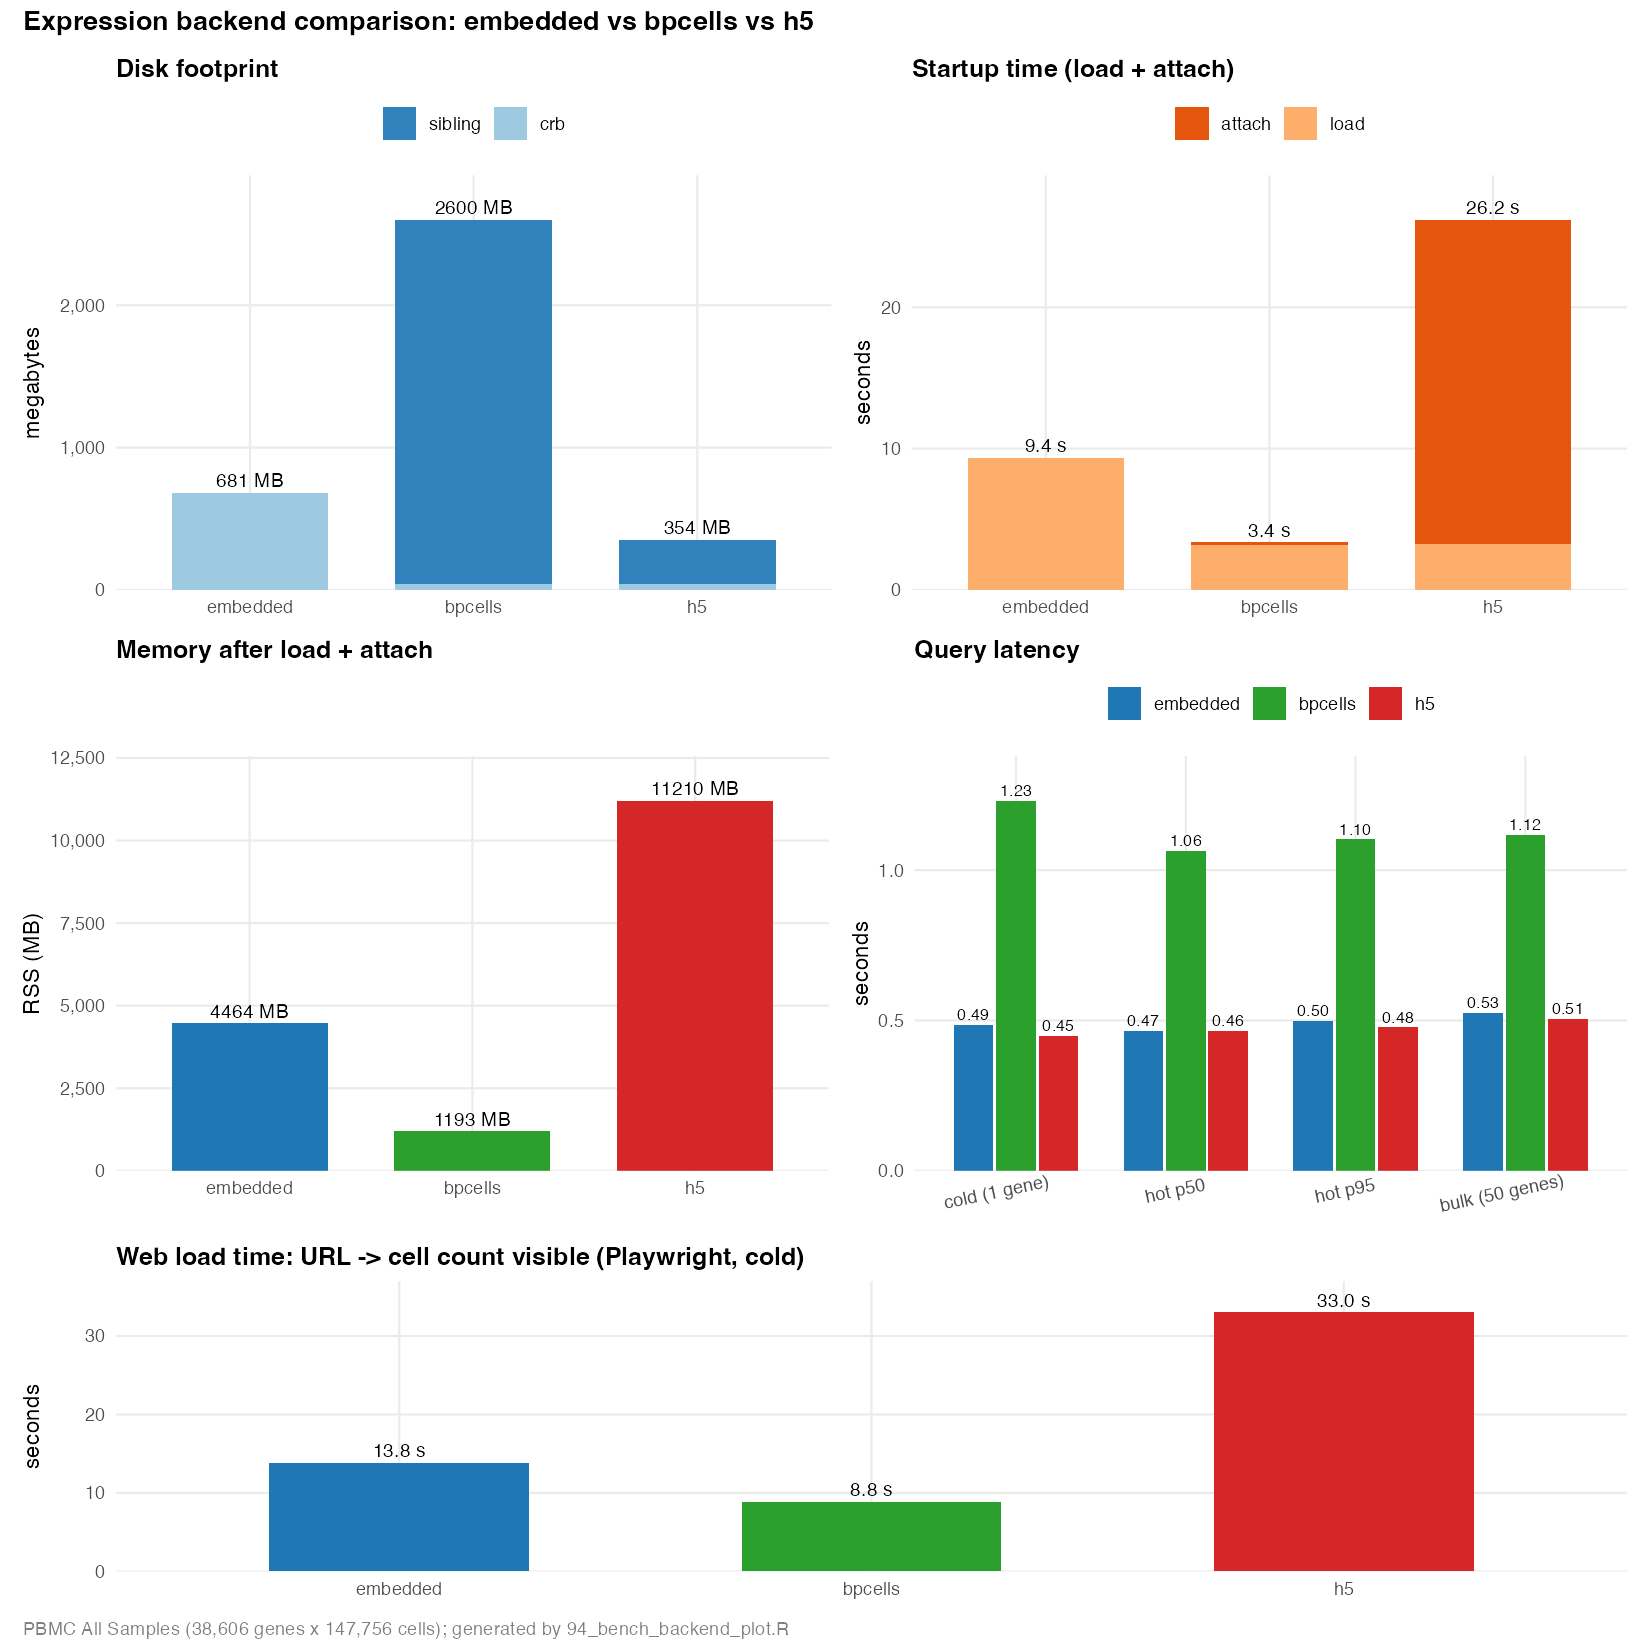
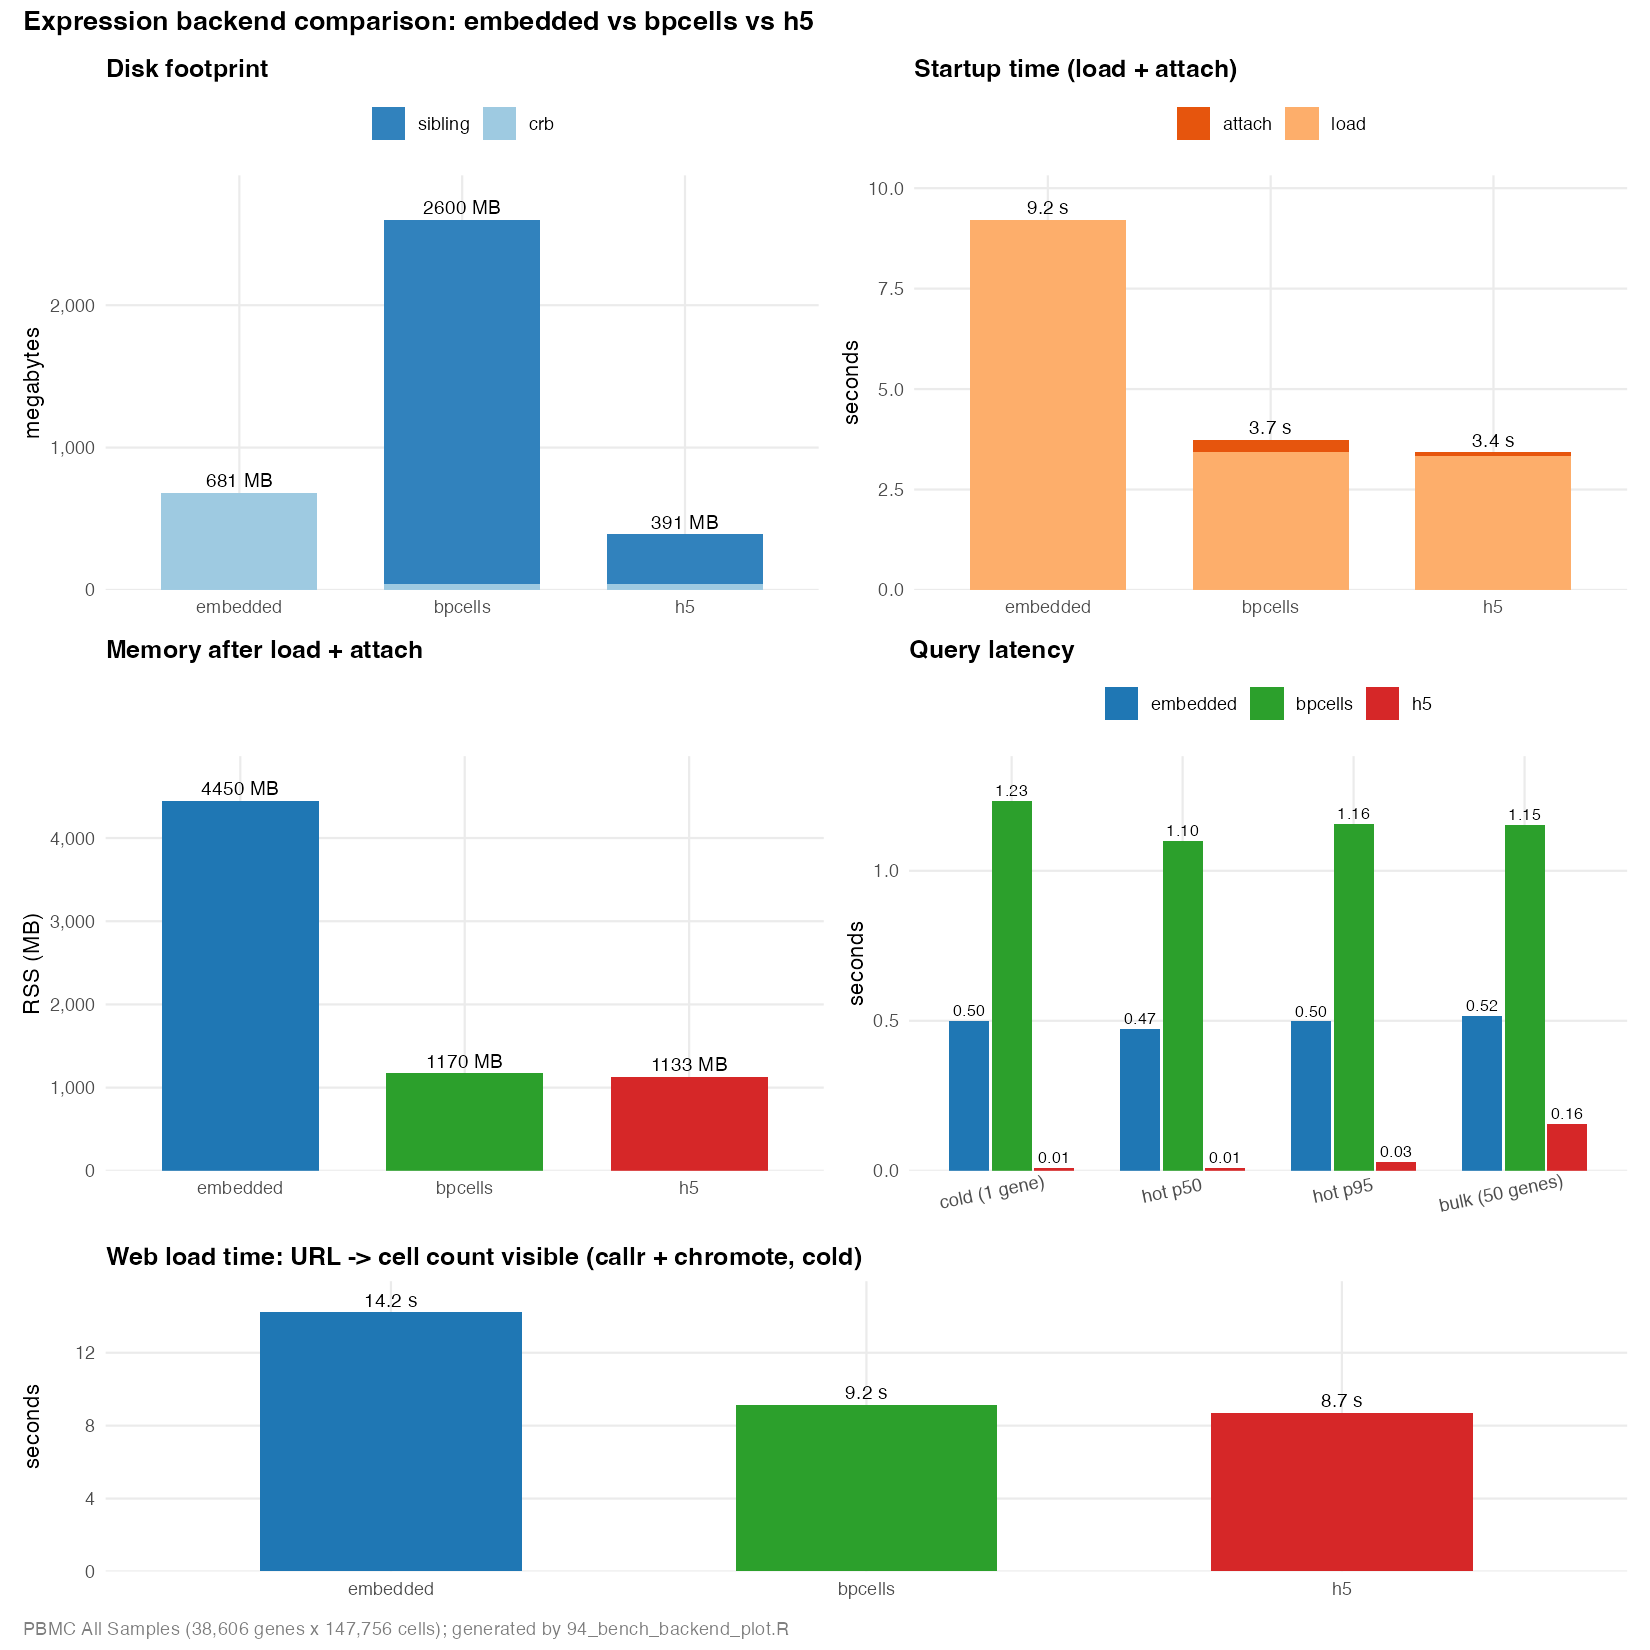
docs: refresh README + vignettes for 1.7.0 lazy h5
- README §3 backend table: h5 row updated to lazy TENxMatrix; measured
  trade-off table now shows the post-refactor numbers (disk 391 MB,
  startup 3.4 s, RAM 1.1 GB, query 0.01 s, web load 8.7 s) with h5 as
  the recommended default.
- vignettes/expression_backend_benchmark.Rmd: new §"The three backends"
  explainer (eager vs lazy in one paragraph + per-backend dimension
  table); §Results / §Web load / §When to pick rewritten with 1.7.0
  numbers; new §Appendix consolidating the 1.6.0-vs-1.7.0 before/after
  comparison (previously scattered in the body).
- vignettes/create_a_self_contained_shiny_app.Rmd: createShinyApp
  rename + author Xuesong Wang.
- vignettes/expression_backend_benchmark_summary.png: refreshed 5-panel
  bench plot (incl. web-load panel) from the new benchmark run.

The bench scripts that produced the numbers live under tests/smoke/
(gitignored as a local sandbox); methodology is fully described in the
vignette so the experiment can be reproduced from scratch.

diff --git a/README.md b/README.md
@@ -1,20 +1,155 @@
-<!-- badges: start -->
-[![R-CMD-check](https://github.com/mihem/cerebroAppLite/actions/workflows/R-cmd-check.yaml/badge.svg)](https://github.com/mihem/cerebroAppLite/actions/workflows/R-cmd-check.yaml)
+[![R-CMD-check (upstream)](https://github.com/mihem/cerebroAppLite/actions/workflows/R-cmd-check.yaml/badge.svg)](https://github.com/mihem/cerebroAppLite/actions/workflows/R-cmd-check.yaml)
 [![License: MIT](https://img.shields.io/badge/License-MIT-yellow.svg)](https://opensource.org/licenses/MIT)
 ![Lifecycle: stable](https://lifecycle.r-lib.org/articles/figures/lifecycle-stable.svg)
-<!-- badges: end -->
+
+
 
 # cerebroAppLite
 
-R package that provides an interactive visualization of single cell RNA-seq data.
-[Seurat](https://github.com/satijalab/seurat) v3, v4 and v5 are supported.
-To increase speed use [h5](https://github.com/Bioconductor/HDF5Array) or [BPCells](https://github.com/bnprks/BPCells) matrix.
+Interactive visualization of single-cell RNA-seq data, built on top of [Shiny](https://shiny.posit.co/).
 
-This is a continuation of the excellent [cerebroApp](https://github.com/romanhaa/cerebroApp) R package from [Roman Hillje](https://github.com/romanhaa), which was sadly discontinued.
-This is supposed to be a lightweight version that only keeps the key functions and focuses on speed.
+This is a fork of [cerebroAppLite](https://github.com/mihem/cerebroAppLite) by [mihem](https://github.com/mihem),
+itself a slimmed-down fork of the original [cerebroApp](https://github.com/romanhaa/cerebroApp)
+by [Roman Hillje](https://github.com/romanhaa). The R-CMD-check badge above tracks mihem's upstream branch.
+For general usage, data preparation, and the original feature set, please refer to the official documentation:
 
-The package can be installed with
+> **<https://romanhaa.github.io/cerebroApp/>**
+
+Everything described there (loading data, exploring projections, viewing marker genes, gene expression, etc.) works the same way in cerebroAppLite. The sections below only cover **what this fork adds or changes**.
+
+## Installation
 
 ```r
-remotes::install_github('mihem/cerebroAppLite')
+remotes::install_github('duocang/cerebroAppLite')
 ```
+
+## What's New in This Fork
+
+### 1. `convertSeuratToCerebro()` — one-step data conversion
+
+The original cerebroApp requires you to call `exportFromSeurat()` manually with many parameters. This fork adds a convenience wrapper that handles the entire process in a single call: reading the Seurat object (`.rds` on disk, or one already loaded in memory), renaming grouping variables, loading marker gene tables, calculating most-expressed genes, pulling scRepertoire columns out of `meta.data`, and saving a `.crb` file.
+
+```r
+library(cerebroAppLite)
+
+convertSeuratToCerebro(
+  seurat_file     = "my_seurat.rds",     # or an in-memory Seurat object
+  result_dir      = "output/",
+  assay           = "RNA",
+  slot            = "data",
+  experiment_name = "My Experiment",
+  organism        = "Human",
+  groups          = c("sample_id", "condition", "cell_type"),
+  groups_naming   = list(
+    "sample_id" = "sample",
+    "cell_type" = "cluster"
+  ),
+  marker_file              = "markers.csv",   # optional: .csv/.tsv/.txt/.tab
+  expression_matrix_mode   = "h5",            # "embedded" | "bpcells" | "h5", see §3
+  bcr_file                 = NULL,            # optional: .rds with BCR data
+  tcr_file                 = NULL             # optional: .rds with TCR data
+)
+# → saves output/cerebro_my_seurat.crb (+ sibling .h5 / .bpcells/ when applicable)
+```
+
+`.qs` input and `.xlsx` marker tables were dropped in 1.6.0 alongside the `qs` / `readxl` Suggests. If you have either, convert them once with `qs::qread() |> saveRDS()` or open the workbook and re-export as CSV / TSV.
+
+### 2. `createShinyApp()` — generate a deployable Shiny app
+
+Instead of running `launchCerebro()` interactively, you can generate a self-contained Shiny app directory with all data and source files bundled. This is useful for deploying to a Shiny server or sharing with collaborators.
+
+```r
+createShinyApp(
+  cerebro_data = c(
+    `snRNAseq` = "output/cerebro_snrnaseq.crb",
+    `TCR-BCR`  = "output/cerebro_vdj.crb"
+  ),
+  result_dir       = "my_app/",
+  welcome_message  = "<h2>My Single-Cell Atlas</h2>",   # rendered via HTML()
+  port             = 8080,
+  host             = "127.0.0.1",
+  max_request_size = 8000,                              # MB
+  overwrite        = TRUE
+)
+# → run with shiny::runApp("my_app/") or deploy to Shiny Server
+```
+
+`cerebro_data` is required and must be a *named* vector / list of `.crb` (or `.rds`) paths — names become the dataset labels users switch between in the app. `result_dir` is optional. Sibling `<stem>.bpcells/` and `<stem>.h5` artefacts produced by the external backends are detected and copied into the bundle automatically (see §3). Other knobs available: `colors`, `cerebro_options`, `crb_pick_smallest_file`, `show_upload_ui`, `point_size`, `variable_to_compare` — run `?createShinyApp` for the full list.
+
+This is the slimmed-down variant in this fork — auth, spatial, and Docker-template handling were dropped because they depend on dev-only modules; they will reappear as the corresponding modules land.
+
+### 3. Choosing an expression backend
+
+`exportFromSeurat()` (and `convertSeuratToCerebro()`) accept `expression_matrix_mode = c("embedded", "bpcells", "h5")` for how the count matrix is persisted alongside the `.crb`:
+
+| Backend     | Where the matrix lives                  | `.crb` size           | Load behaviour                                            | Extra packages | Portability                                  |
+| ----------- | --------------------------------------- | --------------------- | --------------------------------------------------------- | -------------- | -------------------------------------------- |
+| `embedded`  | inside the `.crb` itself                | full matrix included  | always in memory after `readRDS`                          | —              | single-file; works with any reader           |
+| `bpcells`   | sibling `<stem>.bpcells/` directory     | tiny (handle only)    | **lazy** — `IterableMatrix` reads on slice access         | `BPCells`      | `.crb` + sibling dir must travel together    |
+| `h5`        | sibling `<stem>.h5` file (TENx CSC)     | tiny (tag only)       | **lazy** — `HDF5Array::TENxMatrix` seed; queries stream from disk | `HDF5Array`    | `.crb` + sibling `.h5` must travel together  |
+
+Measured trade-offs on a PBMC fixture (38,606 genes × 147,756 cells). Server-side metrics from `tests/smoke/src/93_bench_backend_compare.R` (callr-isolated, three backends each in a fresh R subprocess). End-to-end browser metric from `tests/smoke/src/94_bench_web_load.R` (callr-spawned Shiny + chromote-driven headless Chrome, fresh session per backend). Full methodology and a 5-panel plot in [`vignettes/expression_backend_benchmark.Rmd`](vignettes/expression_backend_benchmark.Rmd):
+
+| metric                                   | embedded | bpcells   |  **h5** |
+| ---------------------------------------- | -------: | --------: | ------: |
+| total disk                               |   681 MB |  2,600 MB |  391 MB |
+| **open URL → dataset visible (browser)** |  14.2 s  |    9.2 s  | **8.7 s** |
+| RAM (RSS) on the server after attach     |   4.5 GB |    1.2 GB | **1.1 GB** |
+| single-gene query, once loaded (cold)    |   0.50 s |    1.23 s | **0.01 s** |
+
+Browser-side TTFB / DOM-ready / `load` are within ~10 ms of each other across backends — all the divergence in the second row is server-side R work (`readRDS` + `.attachExternalExpression()`) plus a constant ~5 s Shiny session handshake.
+
+Picking one:
+
+- **`h5`** *(recommended default)* — smallest disk, fastest startup, lowest RAM, fastest queries. The TENx CSC layout aligns with how Cerebro reads expression (per-gene = single column slice), and HDF5 page-caching makes repeated reads memory-fast without committing the whole matrix to RAM. Requires the `HDF5Array` Bioconductor package on the host.
+- **`bpcells`** — RAM-constrained host with very large matrices, or workloads dominated by chunk-level batched operations rather than per-gene reads. Largest disk of the three but only paid once per dataset; single-gene query is ~1 s.
+- **`embedded`** — single-file convenience (no sibling to manage), or compatibility with very old `.crb` readers. ~14 s end-to-end and pins the full matrix into RAM per loaded copy. Best for small datasets or one-shot scripts.
+
+For reference, before the 1.7.0 lazy h5 refactor, h5 attach was eager (`rhdf5::h5read` + full `dgCMatrix` reconstruction), giving ~33 s open-URL time, ~11 GB RSS, and ~0.45 s queries — i.e. lazy-h5 is the same backend with attach **~263× faster, RAM ~10× smaller, queries ~45× faster, web load ~4× faster** (see [`expression_backend_benchmark.Rmd`](vignettes/expression_backend_benchmark.Rmd) for the comparison).
+
+`createShinyApp()` already knows about both `<stem>.bpcells/` and `<stem>.h5` and copies them next to the bundled `.crb`. The Shiny runtime re-resolves the sibling location on load via `getExpressionBackend()$location` relative to the `.crb`'s parent directory, so the bundle stays portable.
+
+### 4. Other Improvements
+
+- **Seurat v5** support throughout (`GetAssayData()`-based slot access)
+- Loading spinners on all plot outputs
+
+## Testing
+
+The package ships with a `testthat` + `shinytest2` suite under `tests/testthat/`. CI (`.github/workflows/R-cmd-check.yaml`, `.github/workflows/R-tests.yaml`) runs it on every PR; locally:
+
+```r
+# whole suite (loads dev source via pkgload::load_all)
+devtools::test()
+
+# one file at a time
+devtools::test(filter = "app-inst")          # shinytest2 end-to-end smoke
+devtools::test(filter = "exportFromSeurat")  # exporter-only
+devtools::test(filter = "r-functions")       # plain unit tests
+```
+
+`test-app-inst.R` drives a real headless Chrome via `chromote` and relies on `NOT_CRAN=true` (already set in `tests/testthat/setup.R`). Install the extras once:
+
+```r
+install.packages(c("testthat", "shinytest2", "chromote"))
+# or pull the whole Suggests block:
+devtools::install_dev_deps()
+```
+
+From the shell (CI / scripting):
+
+```bash
+# what R CMD check effectively runs (uses installed package, not dev source)
+Rscript -e 'testthat::test_dir("tests/testthat")'
+
+# only the shinytest2 suite, with a verbose reporter
+NOT_CRAN=true Rscript -e 'devtools::test(filter="app-inst", reporter="summary")'
+```
+
+Snapshot diffs from `expect_snapshot()` land under `tests/testthat/_snaps/`; review them with `testthat::snapshot_review()` and accept with `testthat::snapshot_accept()` only after confirming the new output is correct.
+
+See [`tests/README.md`](tests/README.md) for the full layout, the `inst_dir` resolution rule, and the gotcha about regenerating `inst/extdata/v1.4/example.crb` after R6 method changes (a stale fixture surfaces as a misleading `Shiny app did not become stable in 15000ms` from shinytest2).
+
+## License
+
+MIT — see [LICENSE.md](LICENSE.md). Original cerebroApp © Roman Hillje; cerebroAppLite fork by [mihem](https://github.com/mihem).